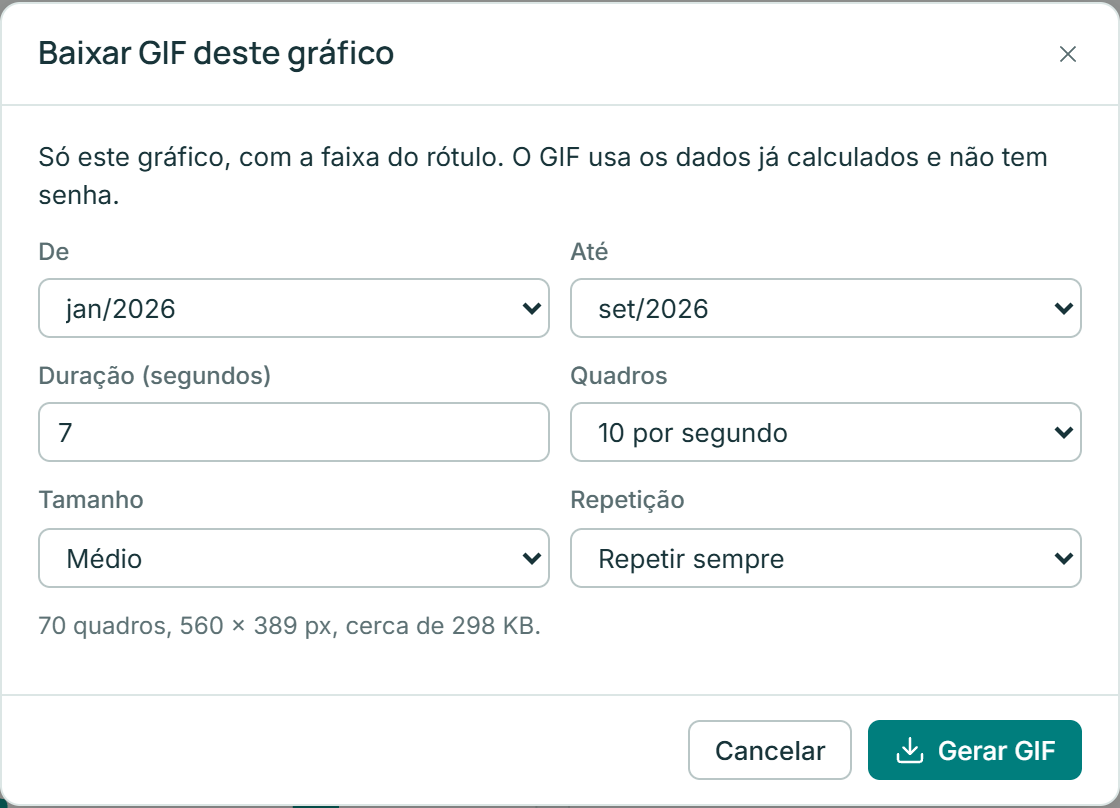
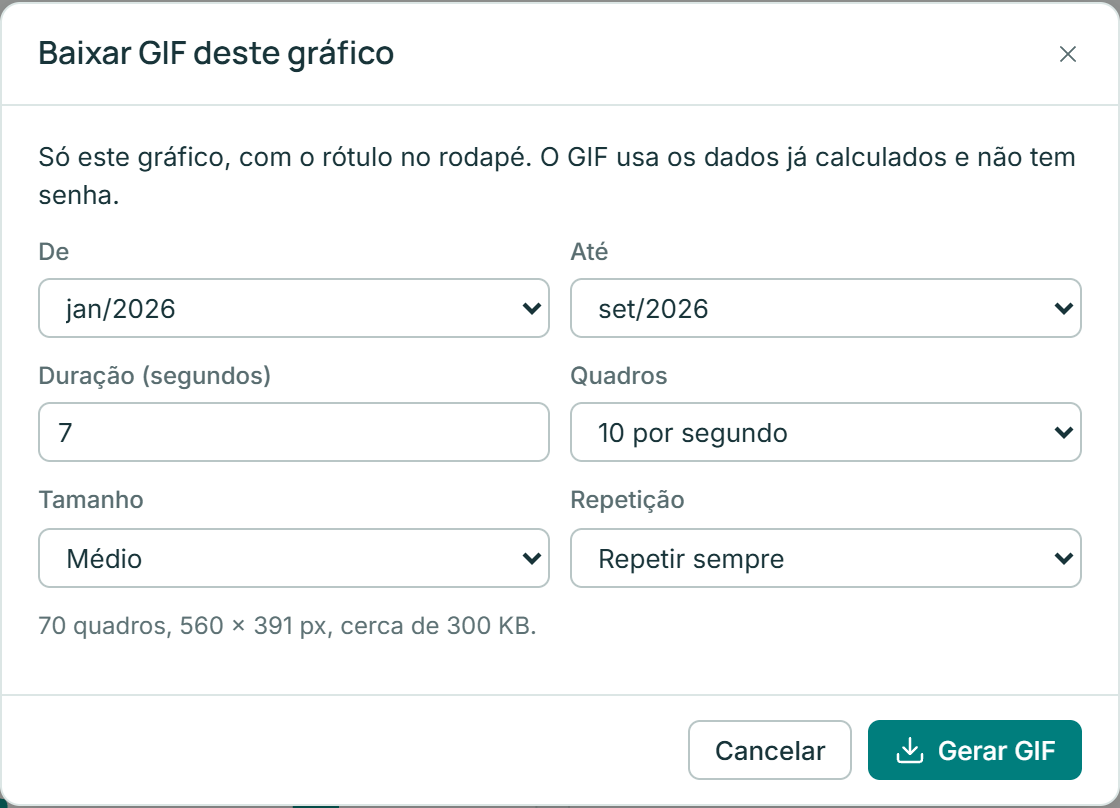
Fórmula com IF ( e gráfico isolado com rótulo no rodapé
- IF seguido de parêntese sem vírgula agora é bloco IF … THEN … ENDIF;
  IF(cond, a, b) no estilo Excel continua função. Parênteses mandam na
  ordem (AND antes de OR), com testes, dicas da barra e item no guia.
- Imagem e GIF de um gráfico sozinho: rótulo vira rodapé dentro da
  moldura, com o ponto na cor do nível, em vez da faixa de página.
  Conferência de tela visual_isolado cobre os quatro níveis.

Changed region(s): [[0.25, 0.1856, 0.9688, 0.2166], [0.25, 0.7426, 0.4688, 0.8045]]

diff --git a/src/prodata/web/js/dash_gif.js b/src/prodata/web/js/dash_gif.js
@@ -2,7 +2,7 @@
 
 import { api } from './api.js';
 import { frameMaker, saveDownload, stamp } from './dash_export.js';
-import { withStrip } from './dash_png.js';
+import { soloSize, soloVisual } from './dash_png.js';
 import { momentLabel } from './dash_replay.js';
 import { dash, nodeLabel, page } from './dash_state.js';
 import { button, fmt, h } from './dom.js';
@@ -15,7 +15,6 @@ const MAX_BYTES = 40 * 1024 * 1024;
 const BYTES_PER_PIXEL = 0.02; // medido em gráficos reais; o tamanho final depende de quanto muda entre quadros
 const WIDTHS = [[360, 'Pequeno'], [560, 'Médio'], [800, 'Grande']];
 const FPS = [[6, '6 por segundo'], [10, '10 por segundo'], [15, '15 por segundo']];
-const STRIP = 40;
 
 const size = (bytes) => (bytes >= 1048576 ? `${fmt.number(bytes / 1048576, 1)} MB` : `${fmt.int(Math.ceil(bytes / 1024))} KB`);
 export const gifBlocked = () => (dash()?.confidentiality || 'interno') === 'restrito';
@@ -25,22 +24,23 @@ function optionsOf(list, value) {
 }
 
 function dimensions(item, width) {
-  const scale = width / item.w;
-  return { scale, width, height: Math.round((item.h + STRIP) * scale) };
+  const solo = soloSize(item);
+  const scale = width / solo.width;
+  return { scale, width, height: Math.round(solo.height * scale) };
 }
 
-/** Só o gráfico daquele item, no momento pedido, com a faixa do rótulo e do período. */
+/** Só o gráfico daquele item, no momento pedido, na mesma moldura da imagem PNG, com o rótulo e o período no rodapé. */
 function frameEl(item, widget, note) {
-  const content = page.itemEl({ ...item, x: 0, y: 0 }, { [item.node_id]: widget }, { exporting: true });
-  return withStrip(h('div', { class: 'dash-page dash-export', style: { width: `${item.w}px`, height: `${item.h}px`, backgroundColor: 'transparent' } }, content), item.w, item.h, note);
+  return soloVisual(item, widget, note);
 }
 
 async function generate(item, replay, choice, ui) {
   const { from, to, seconds, fps, width, loop } = choice;
   const count = Math.max(2, Math.round(seconds * fps));
   const box = dimensions(item, width);
-  const background = getComputedStyle(document.documentElement).getPropertyValue('--surface').trim() || '#ffffff';
-  const draw = await frameMaker(item.w, item.h + STRIP, { scale: box.scale, background });
+  const background = getComputedStyle(document.documentElement).getPropertyValue('--bg').trim() || '#ffffff';
+  const solo = soloSize(item);
+  const draw = await frameMaker(solo.width, solo.height, { scale: box.scale, background });
   const step = replay.timeline.step;
   const widgetAt = (f) => {
     const place = from + ((to - from) * f) / (count - 1);
@@ -104,7 +104,7 @@ export async function openGif(item, replay) {
   const row = (label, control) => h('div', { class: 'field' }, h('label', { class: 'field-label' }, label), control);
   const pick = (key, list, parse = Number) => h('select', { class: 'input', 'aria-label': key, onchange: (e) => { choice[key] = parse(e.target.value); refresh(); } }, optionsOf(list, choice[key]));
   const body = h('div', { class: 'stack-sm' },
-    h('p', {}, 'Só este gráfico, com a faixa do rótulo. O GIF usa os dados já calculados e não tem senha.'),
+    h('p', {}, 'Só este gráfico, com o rótulo no rodapé. O GIF usa os dados já calculados e não tem senha.'),
     h('div', { class: 'replay-gif-grid' },
       row('De', pick('from', moments)),
       row('Até', pick('to', moments)),

diff --git a/src/prodata/web/js/dash_png.js b/src/prodata/web/js/dash_png.js
@@ -56,14 +56,37 @@ function logImage(file) {
     .catch((err) => toastError(err, 'A imagem foi salva, mas não entrou no registro de exportações'));
 }
 
+/** O rótulo de um visual sozinho: um rodapé dentro da moldura, com o ponto na cor da classificação (sempre presente). */
+export function visualLabel(note = page.stripNote?.()) {
+  const level = dash().confidentiality || 'interno';
+  const recorte = activeFiltersText(dash().filters);
+  const text = [`Classificação: ${LABELS[level]}`, note, recorte ? `Filtros: ${recorte}` : ''].filter(Boolean).join(' · ');
+  return h('p', { class: 'dash-solo-label', title: text }, h('span', { class: ['dash-solo-dot', `label-${level}`] }), h('span', {}, text));
+}
+
+export const SOLO_PAD = 16;
+export const SOLO_FOOT = 34;
+/** Tamanho da imagem de um visual sozinho (moldura, rodapé e margem). */
+export const soloSize = (item) => ({ width: item.w + 2 * SOLO_PAD, height: item.h + SOLO_FOOT + 2 * SOLO_PAD });
+
+/**
+ * Um visual sozinho na imagem: moldura arredondada com o visual e o rodapé do rótulo, sobre a cor da página.
+ * A faixa no topo é da imagem da página inteira; aqui ela ficava colada, de cantos retos, sobre o cartão.
+ */
+export function soloVisual(item, widget, note) {
+  const d = dash();
+  const visual = h('div', { class: 'dash-page dash-export', style: { position: 'relative', width: `${item.w}px`, height: `${item.h}px`, backgroundColor: 'transparent' } },
+    page.itemEl({ ...item, x: 0, y: 0 }, { [item.node_id]: widget }, { exporting: true }));
+  return h('div', { class: 'dash-solo', style: { width: `${item.w + 2 * SOLO_PAD}px`, padding: `${SOLO_PAD}px`, background: d.page.background || 'var(--bg)' } },
+    h('div', { class: 'dash-solo-frame' }, visual, visualLabel(note)));
+}
+
 export async function exportVisual(item) {
   const w = page.shownWidgets()[item.node_id];
   if (!w) { toast('Execute o fluxo antes de baixar este visual.'); return; }
   try {
-    const strip = 40;
-    const wrap = withStrip(h('div', { class: 'dash-page dash-export', style: { width: `${item.w}px`, height: `${item.h}px`, backgroundColor: 'transparent' } },
-      page.itemEl({ ...item, x: 0, y: 0 }, { [item.node_id]: w }, { exporting: true })), item.w, item.h);
-    const data = await renderPng(wrap, item.w, item.h + strip, { background: 'transparent' });
+    const { width, height } = soloSize(item);
+    const data = await renderPng(soloVisual(item, w), width, height, { background: dash().page.background || 'var(--bg)' });
     const saved = await savePng(`${w.title || nodeLabel(item.node_id)} - ${stamp()}`, data);
     if (saved) { logImage(saved); toast(`Imagem salva: ${saved}`, { kind: 'success' }); }
   } catch (err) {

diff --git a/docs/guia/guia.html b/docs/guia/guia.html
@@ -996,6 +996,7 @@
       <ul>
         <li><strong>Cores</strong> separam colunas, funções, IF/THEN/ELSE, operadores lógicos (AND, OR, NOT), comparações, textos e números. Coluna inexistente e parêntese sem par ficam sublinhados em vermelho.</li>
         <li><strong>Condições em sequência</strong>: <code>IF [valor] &gt; 1000 THEN "Alto" ELSEIF [valor] &gt; 100 THEN "Médio" ELSE "Baixo" ENDIF</code>. Os botões <strong>IF…ENDIF</strong> e <strong>ELSEIF</strong> inserem a estrutura; o <code>ELSEIF</code> pode repetir quantas vezes precisar.</li>
+        <li><strong>Parênteses mandam na ordem</strong>: sem eles, o <code>AND</code> vem antes do <code>OR</code>. Para agrupar, use <code>IF ([uf] = "SP" OR [uf] = "RJ") AND [valor] &gt; 100 THEN …</code>. Também valem um IF dentro de outro, <code>THEN (IF … ENDIF)</code>, e o resultado de um IF numa conta, <code>(IF … ENDIF) * 10</code>.</li>
         <li><strong>Autocompletar</strong>: comece a digitar e o {{produto}} sugere funções; digite <code>[</code> e ele lista as colunas. <kbd>Enter</kbd> aceita; <kbd>Ctrl</kbd>+<kbd>Espaço</kbd> mostra tudo.</li>
         <li><strong>Dica da função</strong>: dentro dos parênteses aparece o que cada argumento espera.</li>
         <li><strong>Assistente</strong>: botões <em>Coluna</em>, <em>Função</em> (85 funções com descrição e exemplo) e operadores. Para calcular entre colunas da mesma linha: <code>Average([jan], [fev], [mar])</code>, <code>Sum</code>, <code>Median</code>, <code>Mode</code> (moda), <code>StdDev</code> (desvio padrão), <code>Max</code>, <code>Min</code>. Diferente é <code>!=</code>. Para juntar textos use <code>Concat</code>.</li>
@@ -1519,7 +1520,7 @@
   <div class="two-col side-figure">
     <div>
       <p>O botão de filme, no canto do gráfico, gera um GIF só daquele visual. Escolha período, duração, tamanho e quadros por segundo, e veja a estimativa antes de gerar.</p>
-      <p>O GIF não tem senha. Em <strong>Confidencial</strong> ele pede confirmação; em <strong>Restrito</strong> fica bloqueado. Toda imagem sai com a faixa do rótulo.</p>
+      <p>O GIF não tem senha. Em <strong>Confidencial</strong> ele pede confirmação; em <strong>Restrito</strong> fica bloqueado. Toda imagem sai com o rótulo: na página inteira, numa faixa no topo; num gráfico sozinho, no rodapé da moldura, com o ponto na cor do nível.</p>
     </div>
     <figure>
       <div class="frame"><img src="../../src/prodata/web/manual/img/replay-gif.png" alt="Opções do GIF com o tamanho estimado"></div>

diff --git a/src/prodata/web/js/formula_toolbar.js b/src/prodata/web/js/formula_toolbar.js
@@ -13,7 +13,7 @@ const OPERATORS = [
   ['=', 'igual a'], ['!=', 'diferente de'], ['>', 'maior que'], ['>=', 'maior ou igual'], ['<', 'menor que'], ['<=', 'menor ou igual'],
 ];
 const ARITHMETIC = [['+', 'soma (ou junta textos com Concat)'], ['-', 'subtração'], ['*', 'multiplicação'], ['/', 'divisão']];
-const LOGIC = [['AND', 'e: as duas condições'], ['OR', 'ou: pelo menos uma'], ['NOT', 'não: inverte a condição']];
+const LOGIC = [['AND', 'e: as duas condições'], ['OR', 'ou: pelo menos uma. O AND vem antes do OR: use parênteses para mudar a ordem'], ['NOT', 'não: inverte a condição']];
 const NO_COLUMNS = [{ label: 'Execute o fluxo para ver as colunas', icon: 'info', disabled: true, onSelect: () => {} }];
 
 const keepFocus = (e) => e.preventDefault(); // clicar no assistente não tira o foco do campo
@@ -84,7 +84,7 @@ export function formulaToolbar({ columns, insert, rowRefs = false, onExpand = nu
       h('span', { class: 'fx-sep' }),
       h('button', {
         type: 'button', class: 'fx-chip fx-kw',
-        title: 'Condição: IF condição THEN valor ELSEIF outra condição THEN valor ELSE outro ENDIF (o ELSEIF é opcional e pode repetir)',
+        title: 'Condição: IF condição THEN valor ELSEIF outra condição THEN valor ELSE outro ENDIF (o ELSEIF é opcional e pode repetir). O AND vem antes do OR; use parênteses para mudar a ordem: IF ([uf] = "SP" OR [uf] = "RJ") AND [valor] > 100 THEN …',
         onmousedown: keepFocus, onclick: () => insert('IF | THEN  ELSE  ENDIF', { spaced: false }),
       }, 'IF…ENDIF'),
       h('button', {

diff --git a/src/prodata/web/css/dashboard.css b/src/prodata/web/css/dashboard.css
@@ -607,3 +607,19 @@ html.compact .dash-actions .btn.dash-download { width: auto; padding: 0 7px; gap
 .dash-citation-off span { flex: 1; }
 .dash-workspace .dash-citation { margin-left: 0; }
 .organize-scope { max-width: 440px; margin-bottom: 10px; }
+
+/* Um visual sozinho na imagem (0.9.6): moldura única com o rodapé do rótulo, sobre a cor da página */
+.dash-solo { box-sizing: border-box; }
+.dash-solo-frame {
+  border: 1px solid var(--border); border-radius: var(--radius-lg); background: var(--surface); overflow: hidden;
+}
+.dash-solo-frame .dash-item > *, .dash-solo-frame .chart-card, .dash-solo-frame .kpi-tile, .dash-solo-frame .table-card {
+  border: 0; border-radius: 0; box-shadow: none;
+}
+.dash-solo-label {
+  box-sizing: border-box; height: 34px; margin: 0; padding: 0 14px; display: flex; align-items: center; gap: 8px;
+  border-top: 1px solid var(--border); font-size: var(--fs-xs); color: var(--text-2);
+  white-space: nowrap; overflow: hidden; text-overflow: ellipsis;
+}
+.dash-solo-label > span:last-child { overflow: hidden; text-overflow: ellipsis; }
+.dash-solo-dot { flex: none; width: 9px; height: 9px; border-radius: 50%; }

diff --git a/tests/test_formula.py b/tests/test_formula.py
@@ -146,3 +146,67 @@ def test_plus_on_text_points_to_concat() -> None:
     result = formula.validate("[nome] + ' x'", [{"name": "nome", "type": "String"}])
     assert not result["valid"] and "Concat" in result["error"]
     assert "Candidate" not in formula.validate("Year([nome])", [{"name": "nome", "type": "String"}])["error"]
+
+
+# ------------------------------------------------------------------ IF com parênteses (correção da 0.9.6)
+
+HIER = pl.DataFrame({"valor": [50, 150, 300, 150], "uf": ["SP", "RJ", "SP", "MG"]})
+
+
+def _one(expression: str) -> list[object]:
+    return formula.evaluate_columns(HIER, [{"column": "r", "type": "String", "expression": expression}])[
+        "r"
+    ].to_list()
+
+
+@pytest.mark.parametrize(
+    ("expression", "expected"),
+    [
+        ('IF ([valor] > 100) THEN "alto" ELSE "baixo" ENDIF', ["baixo", "alto", "alto", "alto"]),
+        ('IF([valor] > 100) THEN "alto" ELSE "baixo" ENDIF', ["baixo", "alto", "alto", "alto"]),
+        ('if ([valor] > 100) then "alto" else "baixo" endif', ["baixo", "alto", "alto", "alto"]),
+        ('IF ([valor] > 200) OR ([uf] = "MG") THEN "a" ELSE "c" ENDIF', ["c", "c", "a", "a"]),
+        ('IF (([valor] > 100) AND ([uf] <> "MG")) THEN "ok" ELSE "x" ENDIF', ["x", "ok", "ok", "x"]),
+        ('IF [valor] > 200 THEN "a" ELSEIF ([valor] > 100) THEN "b" ELSE "c" ENDIF', ["c", "b", "a", "b"]),
+        ('IF (Contains([uf], "S")) THEN "tem S" ELSE "não" ENDIF', ["tem S", "não", "tem S", "não"]),
+    ],
+)
+def test_if_com_parentese_logo_depois(expression: str, expected: list[object]) -> None:
+    """Antes, ``IF (`` passava adiante como função e dava erro de sintaxe perto de THEN."""
+    assert _one(expression) == expected
+
+
+def test_parenteses_mandam_na_ordem() -> None:
+    # agrupar o OR antes do AND, logo depois do IF ou no meio da condição
+    grouped = ["não", "sim", "sim", "não"]
+    assert _one('IF ([uf] = "SP" OR [uf] = "RJ") AND [valor] > 100 THEN "sim" ELSE "não" ENDIF') == grouped
+    assert _one('IF [valor] > 100 AND ([uf] = "SP" OR [uf] = "RJ") THEN "sim" ELSE "não" ENDIF') == grouped
+    # sem parênteses, o AND vem antes do OR (SP de 50 entra)
+    assert _one('IF [uf] = "SP" OR [uf] = "RJ" AND [valor] > 100 THEN "sim" ELSE "não" ENDIF') == [
+        "sim",
+        "sim",
+        "sim",
+        "não",
+    ]
+    # IF dentro de IF, com e sem parênteses, e o resultado de um IF numa conta
+    nested = ["baixo", "alto", "SP alto", "alto"]
+    assert (
+        _one('IF ([valor] > 100) THEN (IF ([uf] = "SP") THEN "SP alto" ELSE "alto" ENDIF) ELSE "baixo" ENDIF')
+        == nested
+    )
+    assert (
+        _one('IF [valor] > 100 THEN IF [uf] = "SP" THEN "SP alto" ELSE "alto" ENDIF ELSE "baixo" ENDIF')
+        == nested
+    )
+    out = formula.evaluate_columns(
+        HIER,
+        [{"column": "n", "type": "Int64", "expression": "(IF [valor] > 100 THEN 1 ELSE 0 ENDIF) * 10 + 1"}],
+    )
+    assert out["n"].to_list() == [1, 11, 11, 11]
+
+
+def test_if_no_estilo_excel_continua_funcao() -> None:
+    assert _one('IF([valor] > 100, "alto", "baixo")') == ["baixo", "alto", "alto", "alto"]
+    assert _one('IF([valor] > 100, IF([valor] > 200, "a", "b"), "c")') == ["c", "b", "a", "b"]
+    assert "CASE WHEN" not in formula.transpile('IF([valor] > 100, "alto", "baixo")')
+    assert formula.transpile("IF ([valor] > 100) THEN 1 ELSE 0 ENDIF").startswith("CASE WHEN")

diff --git a/scripts/conferir_tela.py b/scripts/conferir_tela.py
@@ -1792,6 +1792,48 @@ def ajustes(pg: Page) -> None:
     _print(pg, "ajuste-comece")
 
 
+# ---------------------------------------------------------------- 0.9.6: um visual sozinho na imagem
+
+
+def visual_isolado(pg: Page) -> None:
+    """A imagem de um visual sozinho: moldura única com o rótulo no rodapé, em todos os níveis, e o PNG baixado."""
+    pg.locator("#viewSwitch .segment[data-view=dashboard]").click()
+    pg.locator(".dash-item").first.wait_for(timeout=20000)
+    pg.wait_for_timeout(800)
+    names = {
+        "publico": "Público",
+        "interno": "Interno",
+        "confidencial": "Confidencial",
+        "restrito": "Restrito",
+    }
+    for level, name in names.items():
+        got = pg.evaluate(
+            """async (level) => {
+              window.__S.mutate((wf) => { wf.dashboard.confidentiality = level; });
+              const P = await import('/static/js/dash_png.js'); const st = await import('/static/js/dash_state.js');
+              const item = st.dash().items.find((i) => i.kind === 'visual' && st.page.shownWidgets()[i.node_id]);
+              const el = P.soloVisual(item, st.page.shownWidgets()[item.node_id]);
+              return { text: el.querySelector('.dash-solo-label')?.textContent || '', dot: el.querySelector('.dash-solo-dot')?.className || '',
+                       frames: el.querySelectorAll('.dash-solo-frame').length, top: el.querySelectorAll('.label-bar').length }; }""",
+            level,
+        )
+        check(f"visual sozinho, {name}: o rodapé traz a classificação e o ponto na cor do nível",
+              f"Classificação: {name}" in got["text"] and f"label-{level}" in got["dot"] and got["frames"] == 1 and got["top"] == 0, got)  # fmt: skip
+    pg.evaluate("() => window.__S.mutate((wf) => { wf.dashboard.confidentiality = 'interno'; })")
+    button = pg.locator('.dash-item button[title*="(PNG)"]').first
+    with pg.expect_download(timeout=30000) as info:
+        button.click()
+    path = Path(tempfile.gettempdir()) / "conferir-visual-isolado.png"
+    info.value.save_as(str(path))
+    head = path.read_bytes()[:8]
+    check(
+        "o PNG do visual sozinho é baixado",
+        head[1:4] == b"PNG" and path.stat().st_size > 5000,
+        path.stat().st_size,
+    )
+    print(f"      print: {path}")
+
+
 # ---------------------------------------------------------------- 0.9.6: estados, capitais, mapa e lugares
 
 
@@ -2030,6 +2072,7 @@ CHECKS: dict[str, Callable[[Page], None]] = {
     "ajustes": ajustes,
     "grafico_serie": grafico_serie,
     "estados_mapa": estados_mapa,
+    "visual_isolado": visual_isolado,
 }  # fmt: skip
 
 # ---------------------------------------------------------------- servidor e navegador

diff --git a/src/prodata/engine/formula.py b/src/prodata/engine/formula.py
@@ -362,7 +362,7 @@ def transpile(expression: str) -> str:
 
     sql = re.sub(r"\bELSEIF\b", "WHEN", sql, flags=re.IGNORECASE)
     sql = re.sub(r"\bENDIF\b", "END", sql, flags=re.IGNORECASE)
-    sql = re.sub(r"\bIF\b(?!\s*\()", "CASE WHEN", sql, flags=re.IGNORECASE)
+    sql = _if_blocks(sql)
     sql = sql.replace("==", "=")
     # Comparar com Null nunca é verdadeiro em SQL; quem escreve isso quer o teste de nulo.
     sql = re.sub(r"(?:!=|<>)\s*NULL\b", " IS NOT NULL", sql, flags=re.IGNORECASE)
@@ -391,6 +391,40 @@ _ROW_LISTS = {
 }
 _ROW_EXTREMES = {"max": "greatest", "min": "least"}
 _VARIADIC = re.compile(r"\b(average|sum|median|mode|stddev|max|min)\s*\(", re.IGNORECASE)
+
+
+def _if_blocks(sql: str) -> str:
+    """``IF`` do bloco IF … THEN … ENDIF vira ``CASE WHEN``; ``IF(cond, a, b)`` no estilo Excel continua função.
+
+    Depois de ``IF``, um parêntese **sem vírgula no nível de fora** é só o agrupamento da condição
+    (``IF ([a] > 1) THEN``, ``IF ([a] OR [b]) AND [c] THEN``); com vírgula, são os argumentos da função. Textos e
+    colunas já viraram marcadores, então nenhuma vírgula ou parêntese dentro deles atrapalha a contagem."""
+    out: list[str] = []
+    pos = 0
+    for match in re.finditer(r"\bIF\b", sql, flags=re.IGNORECASE):
+        out.append(sql[pos : match.start()])
+        pos = match.end()
+        rest = sql[pos:]
+        stripped = rest.lstrip()
+        if not stripped.startswith("("):
+            out.append("CASE WHEN")
+            continue
+        start = pos + (len(rest) - len(stripped))
+        depth, comma, end = 0, False, len(sql)
+        for k in range(start, len(sql)):
+            ch = sql[k]
+            if ch == "(":
+                depth += 1
+            elif ch == ")":
+                depth -= 1
+                if depth == 0:
+                    end = k
+                    break
+            elif ch == "," and depth == 1:
+                comma = True
+        out.append(match.group(0) if comma and end < len(sql) else "CASE WHEN")
+    out.append(sql[pos:])
+    return "".join(out)
 
 
 def _split_args(sql: str, open_at: int) -> tuple[int, int]:
